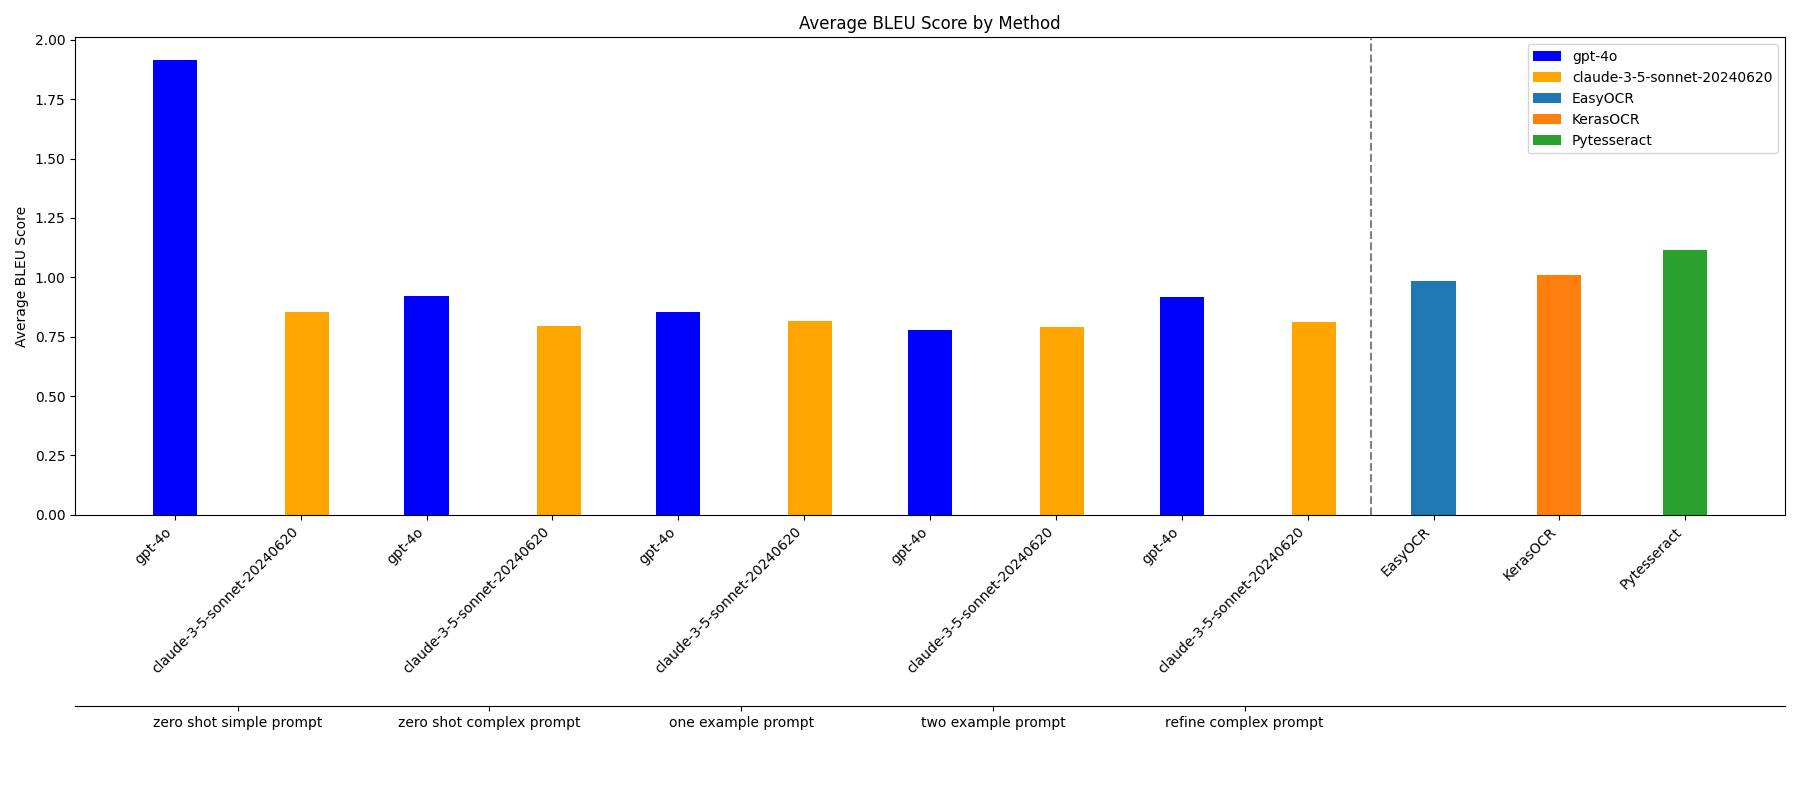
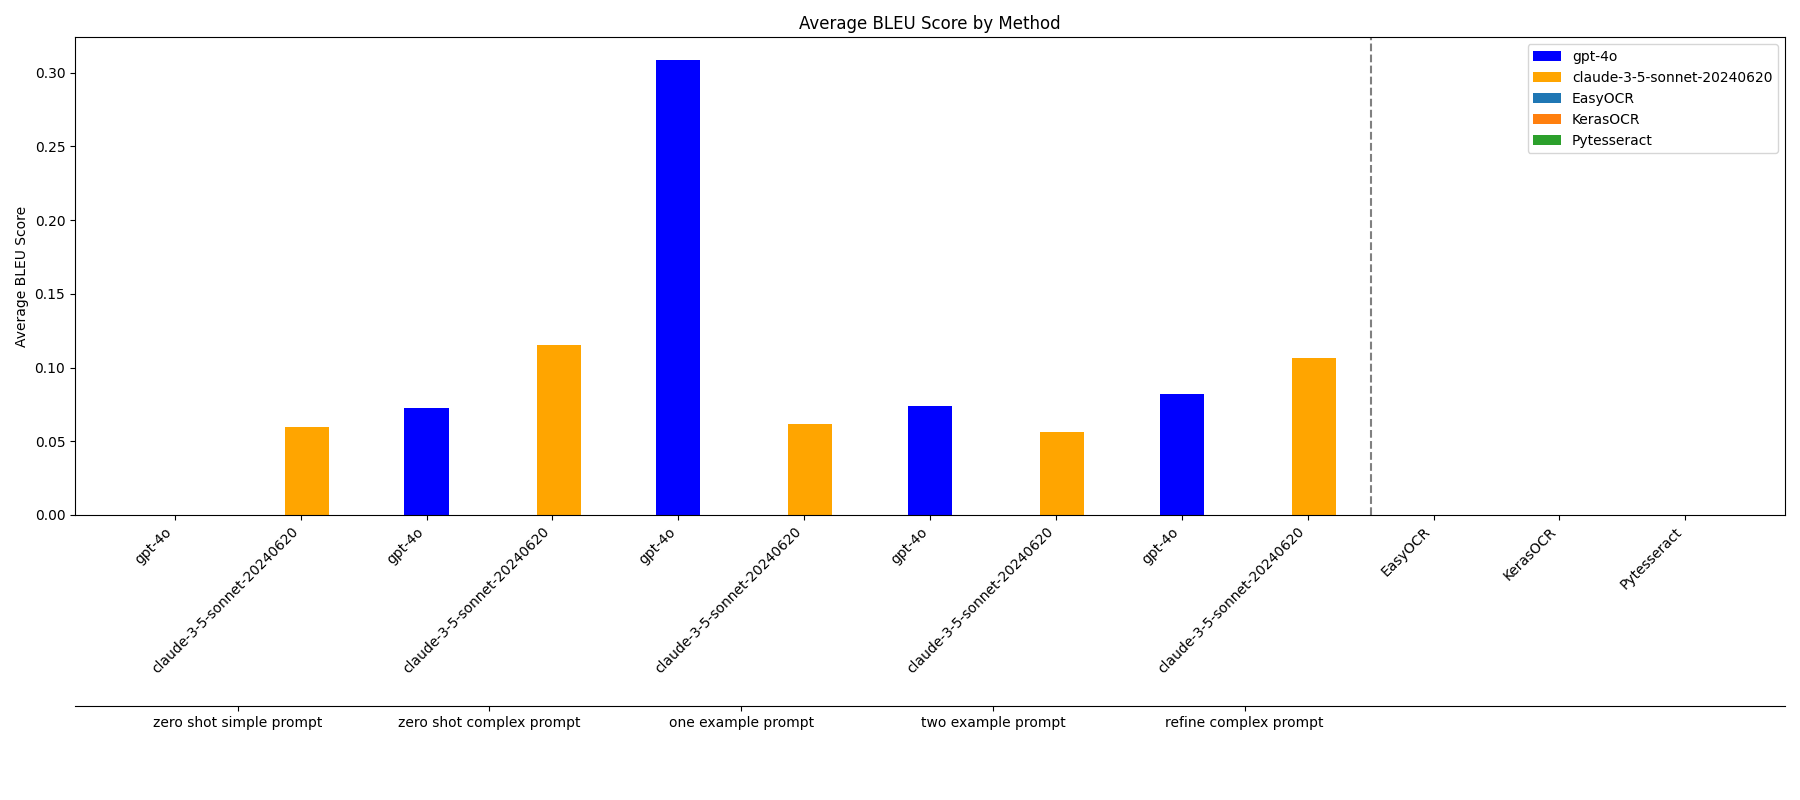
add header to transcription and fix bleu for plot

diff --git a/bar_plot.py b/bar_plot.py
@@ -19,7 +19,7 @@ def collect_bleu_scores(base_path):
     
     for exp in tqdm(experiments, desc=f"Processing experiments", leave=False, ascii=' >='):
         for model in tqdm(models, desc=f"Processing methods", leave=False, ascii=' >='):
-            for i in tqdm(range(20), desc=f"Processing texts", leave=False, ascii=' >='):
+            for i in tqdm(range(1), desc=f"Processing texts", leave=False, ascii=' >='):
                 pred_path = base_path + "/" + exp + "/" + model + "/transcription" + str(i) + ".txt"
                 
                 with open(pred_path, "r", encoding="utf-8") as pred_file:
@@ -28,11 +28,12 @@ def collect_bleu_scores(base_path):
                 gt_path = f"data/transcriptions/transcription_ex{i+1}.xlsx"
                 gt_text = tools.xlsx_to_string(gt_path)
                 
-                scores = tools.compute_distances(pred_text, gt_text)
-                bleu_score = scores[-1]
+                scores = tools.BLEU(pred_text, gt_text)
+                print(scores)
+                bleu_score = scores
                 bleu_scores[exp][model].append(bleu_score)
-                cer_score = scores[-3]
-                cer_scores[exp][model].append(cer_score)
+                #cer_score = scores[-3]
+                #cer_scores[exp][model].append(cer_score)
             
     return bleu_scores
 

diff --git a/lib/tools.py b/lib/tools.py
@@ -156,6 +156,13 @@ class Tools:
             
         return jaccard, masi, levenshtein, cer, bleu, wer
     
+    def BLEU(self, pred, gt):
+        if len(pred) == 0:
+            return 0
+        else:
+            bleu_metric = evaluate.load("bleu")
+            bleu = bleu_metric.compute(predictions=[pred], references=[[gt]])['bleu']
+            return bleu
         
     def CERreduction(self, prev_pred, curr_pred, gt):
         CERred = (self.CER(prev_pred, gt) - self.CER(curr_pred, gt)) / self.CER(prev_pred, gt)
